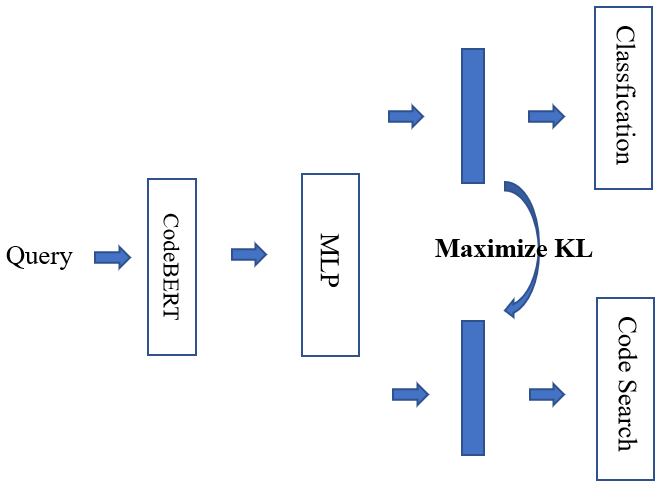
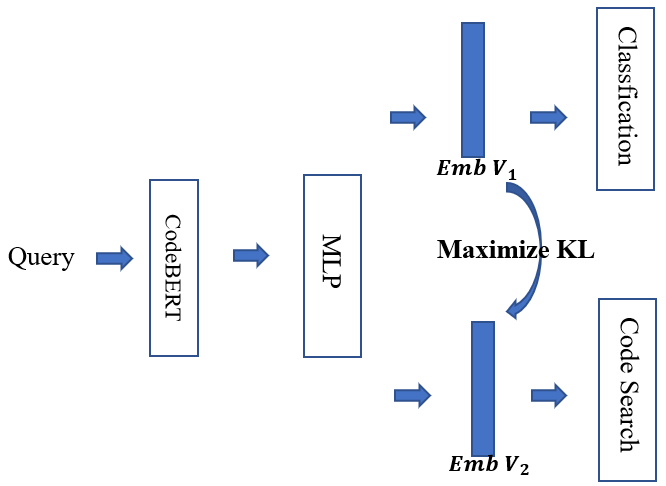
1214

diff --git a/texs/experiment.tex b/texs/experiment.tex
@@ -3,7 +3,159 @@
 \section{Experiment}
 \label{sec:exp}
 
+\subsection{Experiment Setting}
+\noindent\textbf{Dataset.} The dataset we used is the Code Search Net dataset~(\citealp{CodeSearchNet}) 
+preprocessed by GraphCodeBERT~(\citealp{GraphCodeBERT}). 
+The parameter of the dataset is given below. We remove the data of Ruby and Javascript, 
+as they are much less than other data. 
+
+\noindent\textbf{Baseline model.} We choose CodeBERT~(\citealp{CodeBERT}) as the baseline model. 
+It plays an important role in extracting code and query features. 
+It is the encoder that first embed a code snippet or a natural query into a high-dimensional vector. 
+
+\noindent\textbf{Disentangle network.} We use multiple linear perceptron as the basic 
+layers of the network. We use ReLU~(\citealp{agarap2018deep}) as the activation. 
+
+\noindent\textbf{Training setting.} We use an RTX 3090 GPU for training. 
+The batch size of the training procedure is 128. The total training epoch number is 3. 
+We use the package of Transformers 4.24.0 and Pytorch 1.12.0, based on Python 3.8.13.
+
+\begin{figure}[htb]
+	\centering
+	\includegraphics[width=1\linewidth]{imgs/discri_loss.png}
+	% \vspace{-15pt}
+	\caption{Loss change of discirminator during training.}
+	% \vspace{-12pt}
+	\label{fig:disloss}
+\end{figure}
+
+\subsection{Analysing Training Process} 
+\subsubsection{Disentangle Network 1.}
+We illustrated the change of discriminator loss during training in Fig~\ref{fig:disloss}. 
+It is obviously that the loss of the discriminator is able to converge, 
+while there is still slightly increment in some period, e.g., step 50 and step 100.
+Fig~\ref{fig:genloss} shows the loss change of the generator during training. 
+There might be overfitting, 
+as the loss first decreases and then rises with increasing iterations.
 
 
+\begin{figure}[htb]
+	\centering
+	\includegraphics[width=1\linewidth]{imgs/gen_loss.png}
+	% \vspace{-15pt}
+	\caption{Loss change of generator during training.}
+	% \vspace{-12pt}
+	\label{fig:genloss}
+\end{figure}
 
+\begin{figure}[htb]
+	\centering
+	\includegraphics[width=0.9\linewidth]{imgs/st2_loss.png}
+	% \vspace{-15pt}
+	\caption{Loss of network 2 during training.}
+	% \vspace{-12pt}
+	\label{fig:st2loss}
+\end{figure}
 
+\subsubsection{Disentangle Network 2.}
+We list hybrid loss change of network based on strategy 2 in Fig~\ref{fig:st2loss}. 
+It is apparent the loss is decreasing and able to converge. 
+Fig~\ref{fig:st2eval} represents the evaluation index change in the training period, 
+using MRR, which is shown in Eq~\ref{MRR}, as the index and with the evaluation step of 2, 000. 
+
+\begin{figure}[htb]
+	\centering
+	\includegraphics[width=0.9\linewidth]{imgs/st2_eval.png}
+	% \vspace{-15pt}
+	\caption{MRR change in evaluation during training.}
+	% \vspace{-12pt}
+	\label{fig:st2eval}
+\end{figure}
+
+\subsection{Analysing Embedding Vectors after Disentangling}
+Intuitively, identity and semantic information can be divided easily after 
+applying the disentangle strategy we proposed. Thus, we first use t-SNE, 
+which is a dimensionality reduction method, to 
+reduce high-dimensional vectors to 2 dimensions. 
+Then we visualize the 2-dimensional vectors. 
+We sample 5, 000 code snippets from the whole dataset. 
+And then draw the embedding graph. For the strategy 1 network, 
+we visualize the vectors output by the origin CodeBERT and the generator. 
+For the strategy 1, we illustrate embedding vectors output 
+by CodeBERT and disentangle network in Fig~\ref{fig:st2_gan}. Compared to the CodeBERT vectors, i.e., 
+blue points, the generator output, i.e., yellow points, 
+is less concentrated in the same area. For the strategy 2, 
+we visualize v1 and v2 vector, which is considered have identity and semantic information, 
+respectively. From the graph~\ref{fig:st2_emb} we can see that, 
+two types of the vectors can basically be separated. 
+
+\begin{figure}[htb]
+	\centering
+	\includegraphics[width=0.9\linewidth]{imgs/st2_emb.png}
+	% \vspace{-15pt}
+	\caption{Embedding vector comparision of strategy 2 network.}
+	% \vspace{-12pt}
+	\label{fig:st2_emb}
+\end{figure}
+
+\begin{figure}[htb]
+	\centering
+	\includegraphics[width=0.9\linewidth]{imgs/gan_emb.png}
+	% \vspace{-15pt}
+	\caption{Embedding vector comparision of strategy 1 network.}
+	% \vspace{-12pt}
+	\label{fig:st2_gan}
+\end{figure}
+
+\subsection{Analysing Code Search Results}
+In this section, 
+we try to figure out the code search performance of two disentangle networks. 
+We use MRR as the evaluation indicator, 
+which is the reciprocal of the correct result among all returned results 
+and it is given as Eq~\ref{MRR}, where $Q$ is the total test number and $rank_i$ represents the correct rank among all results..
+
+\begin{equation}\label{MRR}
+	MRR = \frac{1}{Q} \sum_{i=1}^Q \frac{1}{rank_i}
+\end{equation}
+
+% Table generated by Excel2LaTeX from sheet 'Sheet1'
+\begin{table}[htbp]
+	\centering
+	\caption{MRR Comparisions}
+	\begin{tabular}{ccc}
+	\toprule
+	& Strategy 1 & Strategy 2 \\
+	\midrule
+	Python & 0.597 & 0.601 \\
+	Go  & 0.873 & 0.882 \\
+	Java & 0.712 & 0.703 \\
+	Php & 0.684 & 0.673 \\
+	\bottomrule
+	\end{tabular}%
+	\label{tab:mrr_comparision}%
+\end{table}%
+
+Table 1 shows the code search MRR results. 
+The left first column indicates the language of data. 
+The top row indicates the strategy we proposed. 
+From the results we can see that there is a small performance increment in Python, 
+compared to the original results in~\ref{section:1}, 
+while a slightly decrease occurs in other languages.
+It is clear that strategy 1 and strategy 2 can reach a similar result, 
+while Java and Php data have a better MRR in strategy 1, 
+and Python and Go data are better in strategy 2.
+
+\section{Discussion and Conclusion}
+In this paper, we propose two disentangle strategies 
+for tackling performance decline when fine-tuning CodeBERT 
+for the code search task with multiple language data. 
+In strategy 1, we leverage a GAN-based model, to eliminate identity information. 
+In strategy 2, we use MLPs to divide embeddings by maximize their KL divergence. 
+Experiments show our work achieve some results. 
+
+However, we only consider identity information as the signal that 
+distinguish program languages from each other, e.g., a classification task. 
+Whether the identity information is equal to syntax information, 
+needs more experiments to proof. Besides, the code search performance 
+still have room for improvement. We hope our work can be reference for 
+the same field researchers.

diff --git a/texs/method.tex b/texs/method.tex
@@ -70,3 +70,29 @@ used for code search.
 	\label{fig:st2}
 \end{figure}
 
+According to the above, learning the disentangle network 
+involves finding parameters $\theta=(W,b)$ that minimize the hybrid loss on the given dataset, 
+and the objective is given as Eq~\ref{eq_st2_4}, 
+where $\alpha_1$, $\alpha_2$, $\alpha_3$ are hyperparameters, 
+and the sum of them is equal to 1. 
+Besides, Eq~\ref{eq_st2_1} represents the code search loss, intends to keep search performance, 
+where $sim$ is  the similarity score and $c_i$ is the $i_{th}$ code and $q_i$  is the $i_{th}$ query. 
+Eq~\ref{eq_st2_2} is the classification loss, the purpose is to extract identity information. 
+Eq~\ref{eq_st2_3} leverages KL divergence to maximize the distribution of the embedding vectors output 
+by the disentangle network.
+\begin{equation}\label{eq_st2_1}
+L_{1} = \frac{1}{n}{\sum_{i = 1}^{n}\left( 1 - sim\left( encoder\left( c_{i} \right),encoder\left( q_{i} \right) \right) \right.}
+\end{equation}
+
+\begin{equation}\label{eq_st2_2}
+L_{2} = \frac{1}{n}{\sum_{i = 1}^{n}{\sum_{j = 1}^{k}{- y_{i,j}log\left( p_{i,j} \right)}}}
+\end{equation}
+
+\begin{equation}\label{eq_st2_3}
+L_{3} = \frac{1}{n}{\sum_{i = 1}^{n}\left( \alpha - KL\left( V_{1,i},V_{2,i} \right) \right)}
+\end{equation}
+
+\begin{equation}\label{eq_st2_4}
+\theta = {\min\limits_{\theta}{\alpha_{1}L_{1} +}}\alpha_{2}L_{2} + \alpha_{3}L_{3}
+\end{equation}
+

diff --git a/texs/introduction.tex b/texs/introduction.tex
@@ -1,6 +1,7 @@
 %!TEX root = ../main_article.tex
 
 \section{Introduction}
+\label{section:1}
 
 Code search plays a vital role in the software development process, which is an essential field of Software Engineering and studies the semantic similarity between natural language queries and program code. Recent years have witnessed a massive increment in source code. The statistic shows that more than 60 million new projects were created only in 2020 (\citealp{abs-2110-10246}). Thus, code search engines can improve the development efficiency of program developers, enabling them to search for existing code or examples of some API (Application Programming Interface) instead of “rebuilding wheels.” 
 

diff --git a/main_article.tex b/main_article.tex
@@ -139,7 +139,7 @@
     \input{texs/related_work.tex}
     % \input{texs/plan.tex}
     \input{texs/method.tex}
-    % \input{texs/experiment.tex}
+    \input{texs/experiment.tex}
     % \input{texs/conclusion.tex}
     \clearpage
     \bibliography{ref}
